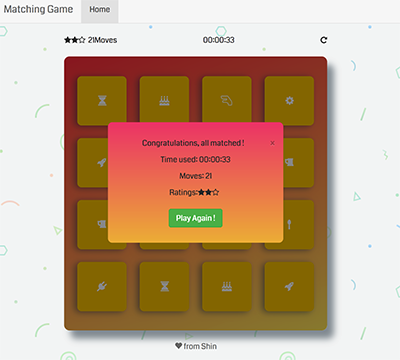
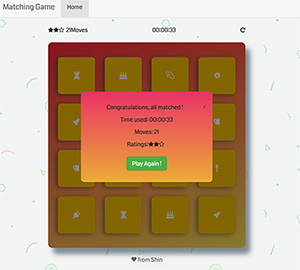
add responsiveness preview

diff --git a/README.md b/README.md
@@ -1,12 +1,11 @@
 # Matching game
 A classic card flip matching game !
+It's a single-page responsive web-application generated with [yo angular generator](https://github.com/yeoman/generator-angular) version 0.16.0.
 
 ![](preview/start.png)
 ![](preview/middle.png)
 ![](preview/end.png)
-
-This project is generated with [yo angular generator](https://github.com/yeoman/generator-angular)
-version 0.16.0.
+![](preview/responsive.png)
 
 ## Build & development
 Make sure you have before running.
